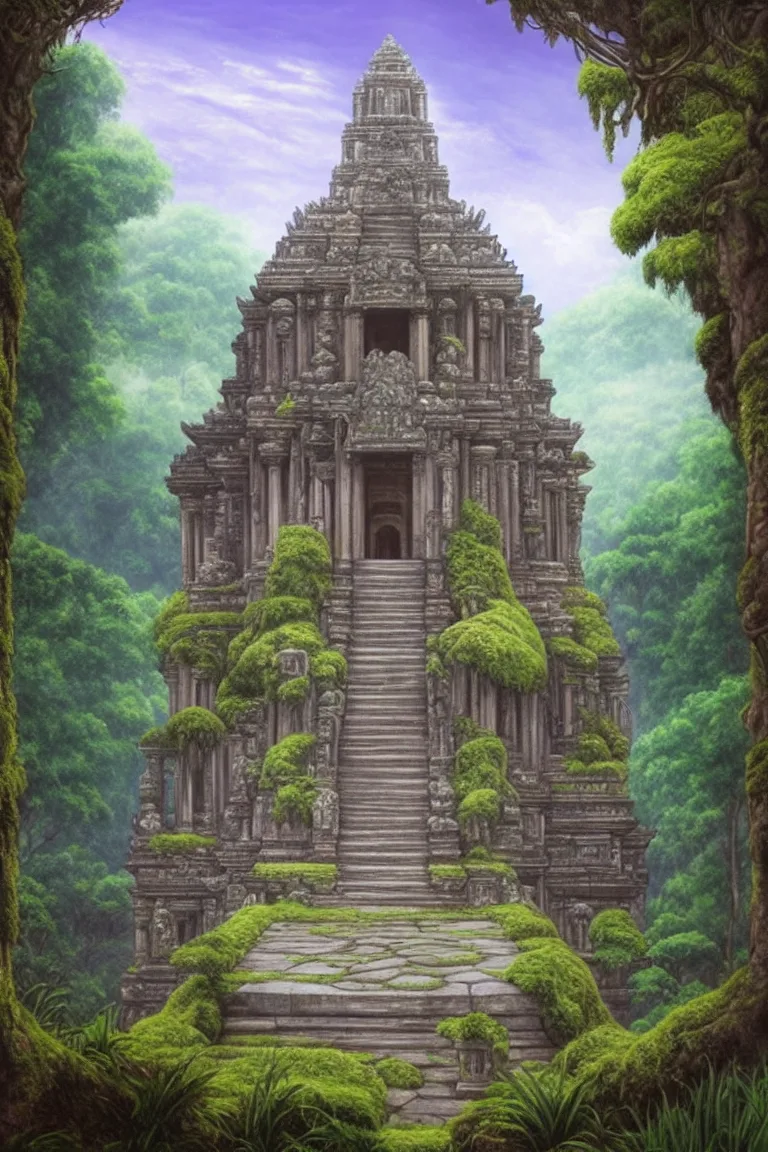
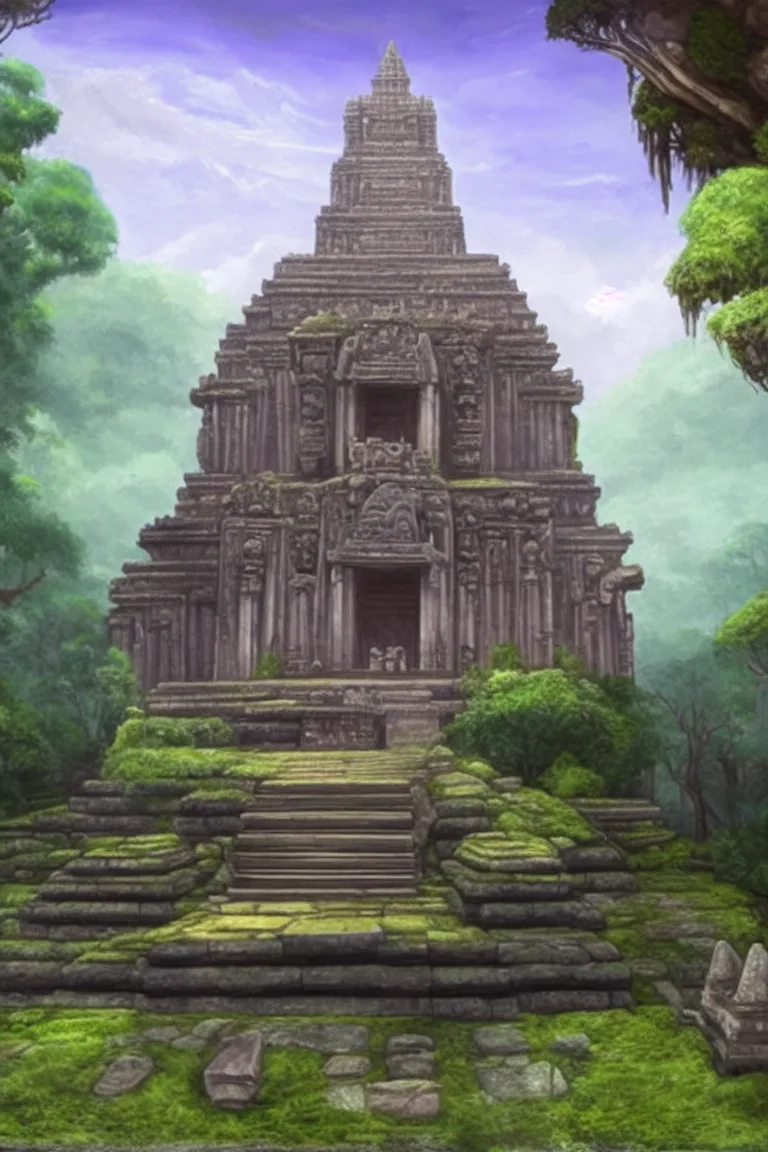
fix(rpg): 監督神殿橫幅改為神殿＋前方階梯合成圖（更雄偉）

diff --git a/rpg-domain-banner.js b/rpg-domain-banner.js
@@ -4,7 +4,7 @@
   const BANNERS = {
     INTRO: { img: 'assets/domain_banners/INTRO.webp', tip: '叢林空地上的石屋聚落——每位見習士降落 AI 宇宙的第一站。', music: 'explore' },
     DATA:  { img: 'assets/domain_banners/DATA.webp',  tip: '穿過洞穴石拱，礦脈深處埋藏著待淘洗的資料。', music: 'explore' },
-    SL:    { img: 'assets/domain_banners/SL.webp?v=2',    tip: '苔蘚覆蓋的古老石柱神殿，守護者在此監督每一次學習。', music: 'explore' },
+    SL:    { img: 'assets/domain_banners/SL.webp?v=3',    tip: '苔蘚覆蓋的古老石柱神殿，守護者在此監督每一次學習。', music: 'explore' },
     UL:    { img: 'assets/domain_banners/UL.webp',    tip: '霧中河谷的殘牆——沒有標籤、沒有答案，只有等待你發現的結構。', music: 'explore' },
     ADV:   { img: 'assets/domain_banners/ADV.webp',   tip: '懸崖石索橋通往山頂要塞，中級議會正在等你。', music: null },
     RL:    { img: null, tip: '', music: 'battle' }

diff --git a/rpg.html b/rpg.html
@@ -1721,7 +1721,7 @@ function _typewriter(el, text, done, speed=28) {
 <script src="rpg-grimoire.js"></script>
 <script src="rpg-npc-agent.js"></script>
 <script src="rpg.js"></script>
-<script src="rpg-domain-banner.js?v=20261011b"></script>
+<script src="rpg-domain-banner.js?v=20261011c"></script>
 <script>
 // ── 角色創建系統（HermesAgent 設計）──────────────────────────────
 const CHAR_STORAGE_KEY = 'rpg_char_profile';
